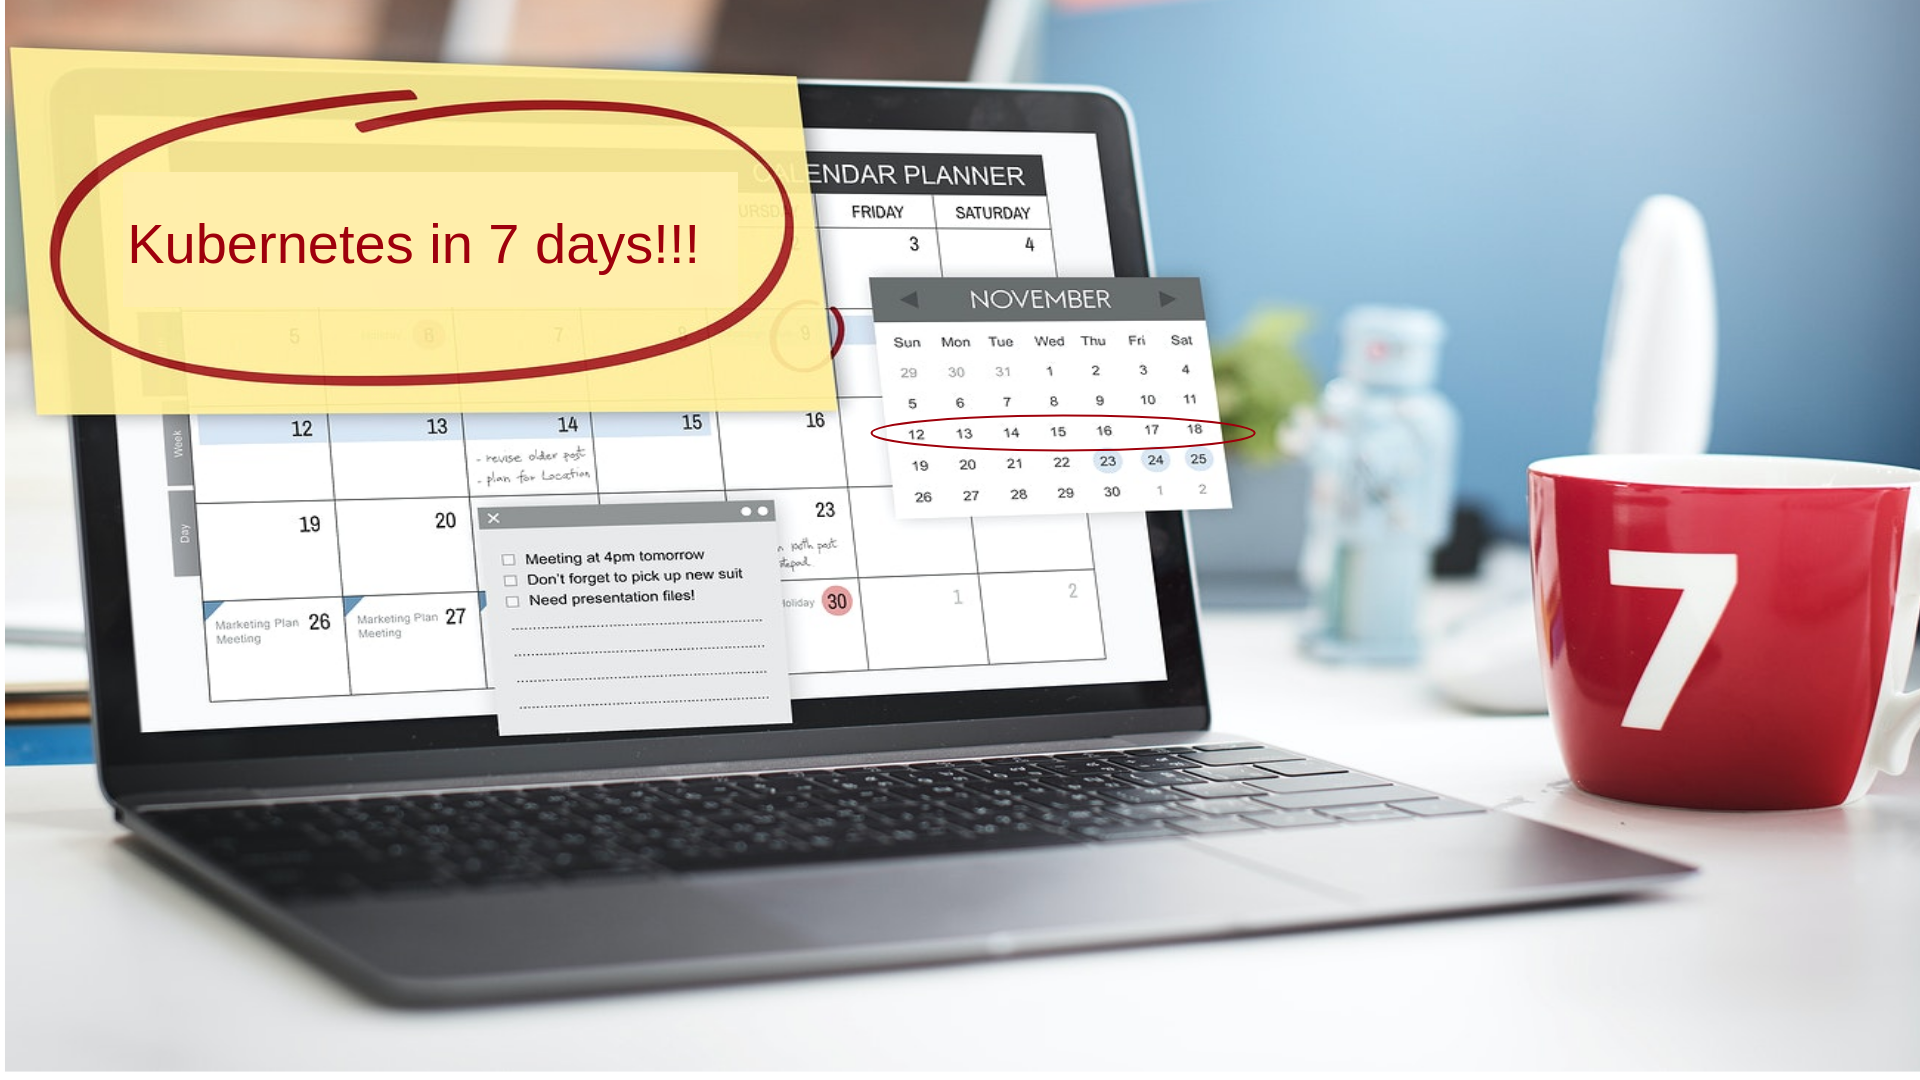
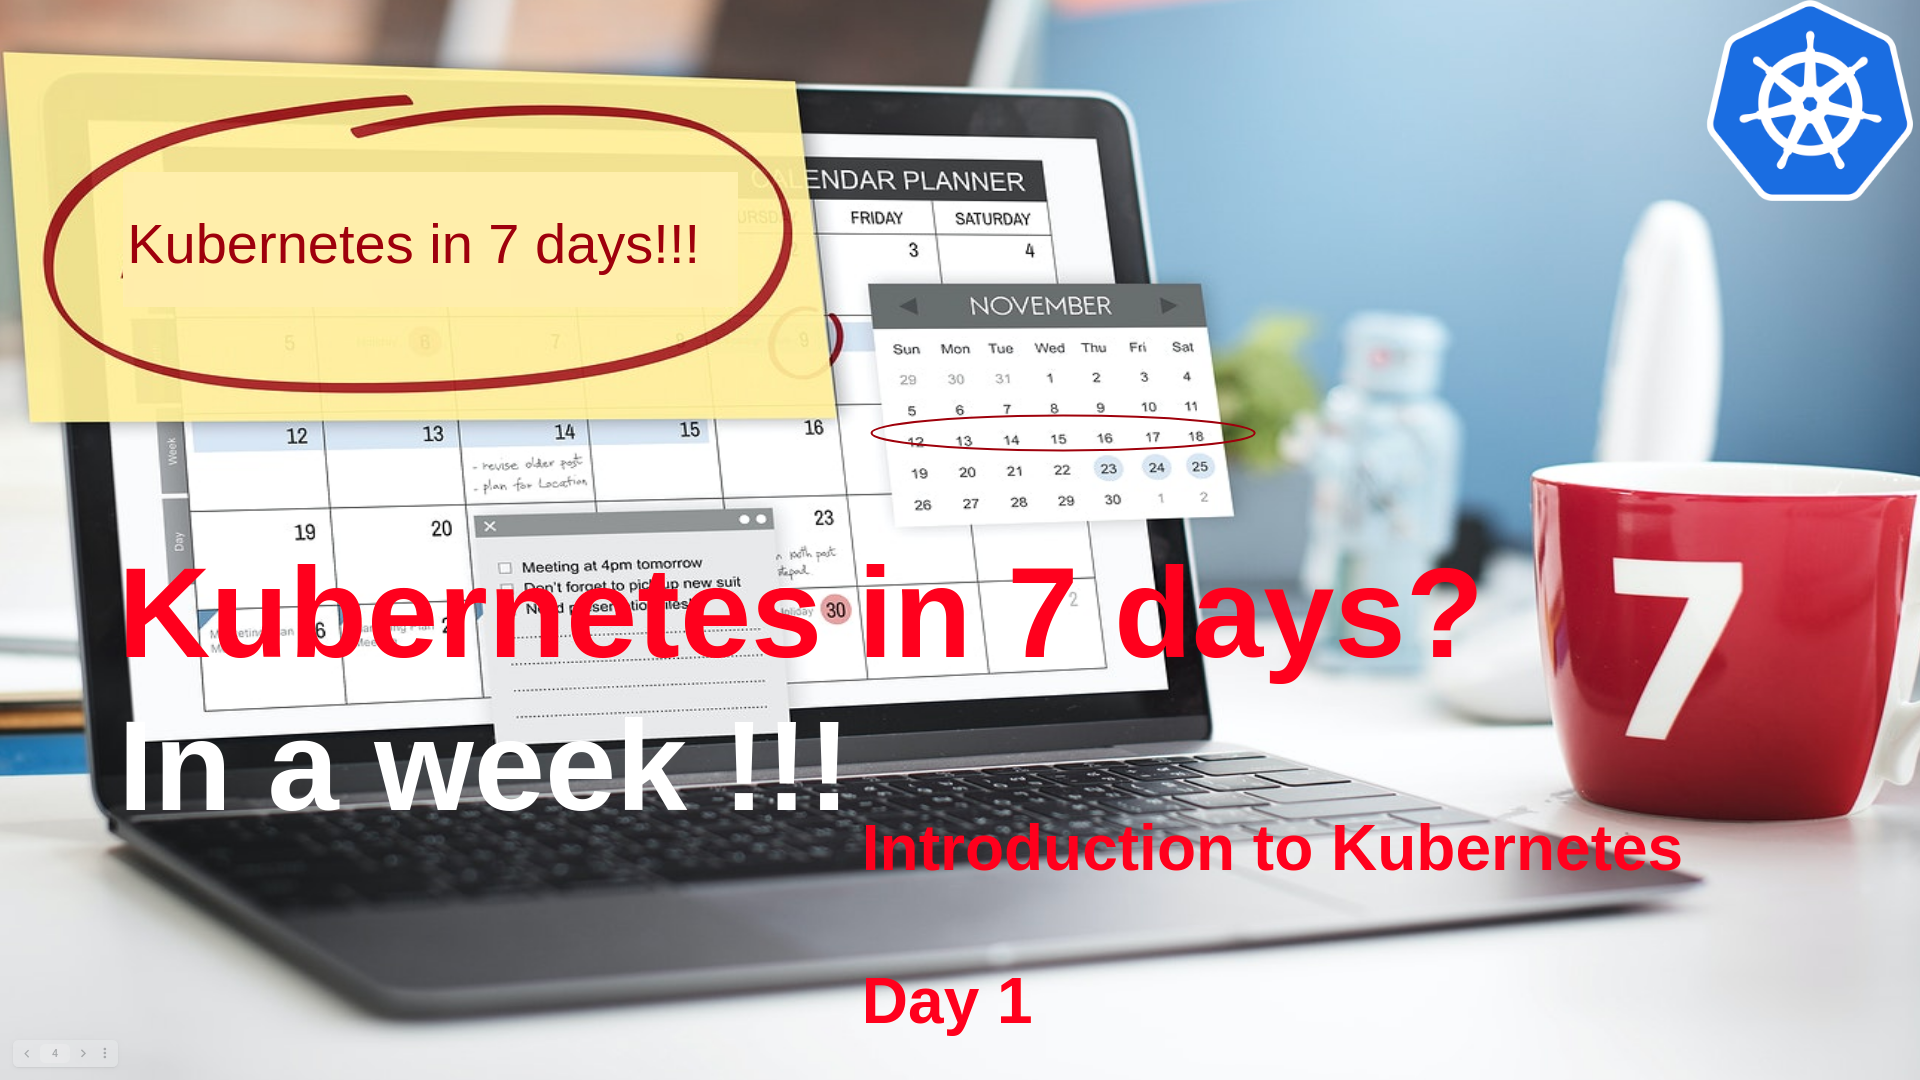
Added log

diff --git a/docs/_pages/home.md b/docs/_pages/home.md
@@ -13,7 +13,7 @@ excerpt: >
   Hello! I am Rajith<br />
   <small>This is a place for people who love to enhance their technical knowledge.Feel free to go through the pages. </small>
 feature_row:
-  - image_path: /assets/images/kuberneties/Day1.png
+  - image_path: /assets/images/kuberneties/Day-First.png
     alt: "customizable"
     title: "Kubernetes in 7 days? In a week !!!"
     excerpt: "This is the introductory series of Kubernetes. Here we have 7 modules along with the demo. In this, we are going through the Kubernetes architecture, pods, deployment, service, volumes, along with the details of corresponding definition files."

diff --git a/_Kubernetes/KubernetesPart6_service-2.md b/_Kubernetes/KubernetesPart6_service-2.md
@@ -3,7 +3,7 @@ title: "Service Demo"
 excerpt: "In this demo, we will expose an Nginx deployment outside the cluster with the help of the ClusterIP service."
 header:
   overlay_color: "#80aaff              "
-  teaser: /assets/images/kuberneties/Day6.png
+  teaser: /assets/images/kuberneties/Day6-Demo.png
   excerpt: "Make the application access to the external world through the Kubernetes service."
   show_overlay_excerpt: false
   show_date: true

diff --git a/_Kubernetes/KubernetesPart5_Deployment-2.md b/_Kubernetes/KubernetesPart5_Deployment-2.md
@@ -3,7 +3,7 @@ title: "Deployment Demo."
 excerpt: "Here we will play with the deployment. We will create, verify, scale-up, scale down and upgrade.."
 header:
   overlay_color: "#80aaff              "
-  teaser: /assets/images/kuberneties/Day5.png
+  teaser: /assets/images/kuberneties/Day5-Deno.png
   excerpt: "Create your Deployment and understand the Pod definition file."
   show_overlay_excerpt: false
   show_date: true
